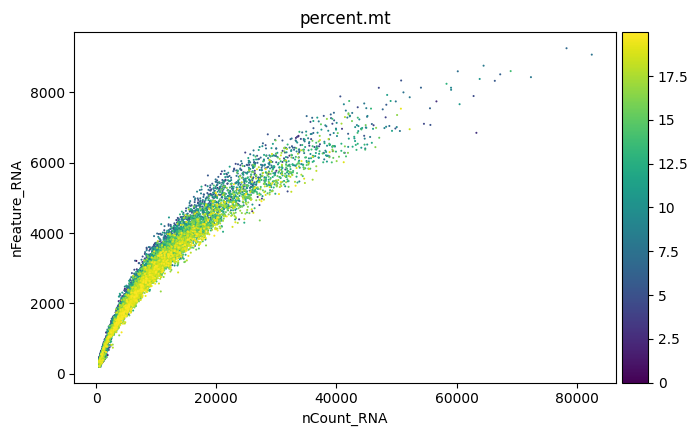
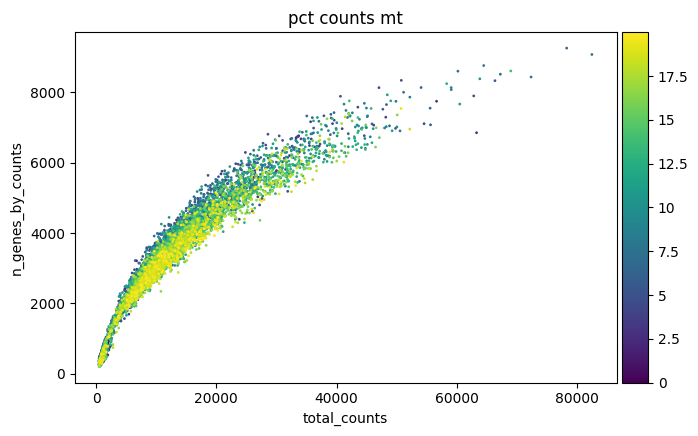
updates

diff --git a/PythonCode/GaldosProcess.py b/PythonCode/GaldosProcess.py
@@ -26,6 +26,7 @@ import lamindb as ln
 import numpy as np
 import scanpy as sc
 import seaborn as sns
+import pandas as pd
 from rpy2.robjects import numpy2ri
 from rpy2.robjects.conversion import localconverter
 from scipy.sparse import csc_matrix
@@ -157,12 +158,26 @@ def DoSoup(adata, rawFile):
     # Min 20 cells - filters out 0 count genes
     sc.pp.filter_genes(adata, min_cells=20)
     print(f"Number of genes after cell filter: {adata.n_vars}")
+    return adata
 
-def is_outlier(adata, metric: str, nmads: int):
+def is_outlier(adata, metric: str, nmads: int, upper_only: bool = False):
     M = adata.obs[metric]
-    outlier = (M < np.median(M) - nmads * median_abs_deviation(M)) | (
-        np.median(M) + nmads * median_abs_deviation(M) < M
-    )
+    outlier = pd.Series(False, index=adata.obs_names, dtype=bool)
+
+    for celltype in adata.obs["Classification"].unique():
+        isCelltype = adata.obs["Classification"] == celltype
+        M_group = M[isCelltype]
+
+        med = np.median(M_group)
+        mad = median_abs_deviation(M_group)
+
+        if upper_only:
+            group_outlier = M_group > med + nmads * mad
+        else:
+            group_outlier = (M_group < med - nmads * mad) | (M_group > med + nmads * mad)
+
+        outlier[isCelltype] = group_outlier
+
     return outlier
 
 
@@ -218,15 +233,14 @@ for i, filePath in enumerate(Galdos_Hipsc):
     | is_outlier(gex_adata, "log1p_n_genes_by_counts", 5)
     | is_outlier(gex_adata, "pct_counts_in_top_20_genes", 5)
     )
-    gex_adata.obs["mt_outlier"] = is_outlier(gex_adata, "pct_counts_mt", 3) | (
-    gex_adata.obs["pct_counts_mt"] > 60
-    )
+    gex_adata.obs["mt_outlier"] = is_outlier(gex_adata, "pct_counts_mt", 5, True) 
+    
     print(f"Total number of cells: {gex_adata.n_obs}")
     gex_adata = gex_adata[(~gex_adata.obs.outlier) & (~gex_adata.obs.mt_outlier)].copy()
 
     print(f"Number of cells after filtering of low quality cells: {gex_adata.n_obs}")
-
-    DoSoup(gex_adata, rawFiles[i])
+    gex_adata.raw = gex_adata
+    gex_adata = DoSoup(gex_adata, rawFiles[i])
 
     GaldosAdatas.append(gex_adata)
     del gex_adata, hto_adata
@@ -237,9 +251,9 @@ GaldosAdatas.var_names_make_unique()
 GaldosAdatas.obs_names_make_unique()
 sc.pp.highly_variable_genes(
     GaldosAdatas,
-    n_top_genes=1200,
+    n_top_genes=3000,
     subset=True,
-    layer="counts",
+    layer="soupX_counts",
     flavor="seurat_v3",
     batch_key="sample",
 )
@@ -256,7 +270,7 @@ scvi.model.SCVI.setup_anndata(
     layer="counts",
     batch_key = "sample",
     categorical_covariate_keys=["CellLine"],
-    #continuous_covariate_keys=["pct_counts_mt", "pct_counts_ribo", "pct_counts_hb"],
+    continuous_covariate_keys=["pct_counts_mt", "pct_counts_ribo", "pct_counts_hb"],
 )
 model = scvi.model.SCVI(GaldosAdatas)
 model.train()
@@ -272,5 +286,14 @@ sc.pl.umap(
     show=False,
     save="_umap_DayGaldos.png",
 )
-GaldosAdatas.write("ProcessedData/GaldosScanpy.h5ad")
+
+# 1. Convert .obs and .var row indices to strings
+GaldosAdatas.obs_names = GaldosAdatas.obs_names.astype(str)
+GaldosAdatas.var_names = GaldosAdatas.var_names.astype(str)
+
+# 2. Convert .obs and .var column headers to strings
+GaldosAdatas.obs.columns = GaldosAdatas.obs.columns.astype(str)
+GaldosAdatas.var.columns = GaldosAdatas.var.columns.astype(str)
+
+GaldosAdatas.write_zarr("ProcessedData/GaldosScanpy.zarr")
 

diff --git a/PythonCode/integration.py b/PythonCode/integration.py
@@ -1,0 +1,131 @@
+# Core scverse libraries
+from mlx.core.random import categorical
+from __future__ import annotations
+
+import matplotlib
+import matplotlib.pyplot as plt
+
+import anndata as ad
+
+# Data retrieval
+import scanpy as sc
+import scanpy.external as sce
+
+# Reproducibility
+import scvi
+import torch
+
+GaldosPath = "ProcessedData/GaldosScanpy.zarr"
+BioreactorPath = "ProcessedData/BioReactorScanpy.zarr"
+
+
+GaldosAdata = ad.read_zarr(GaldosPath)
+BioreactorAdata = ad.read_zarr(BioreactorPath)
+
+GaldosAdata.obs["source"] = "Galdos"
+BioreactorAdata.obs["source"] = "Bioreactor"
+
+BioreactorAdata.obs["Day"] = 15
+BioreactorAdata.obs["Day"] = BioreactorAdata.obs["Day"].astype(int).astype("category")
+BioreactorAdata.obs[['CellLine', 'substrate']] = BioreactorAdata.obs['orig.ident'].str.split('_', n=1, expand=True)
+
+GaldosAdata.obs["substrate"] = "2D"
+
+
+mergedAdata = ad.concat([GaldosAdata, BioreactorAdata], join = "inner")
+
+del(GaldosAdata)
+del(BioreactorAdata)
+
+sc.pp.highly_variable_genes(
+    mergedAdata,
+    n_top_genes=3000,
+    subset=True,
+    layer="counts",
+    flavor="seurat_v3",
+    batch_key="source",
+)
+torch.set_float32_matmul_precision('medium')
+scvi.model.SCVI.setup_anndata(
+    mergedAdata,
+    layer="counts",
+    batch_key = "source",
+    categorical_covariate_keys=["CellLine"],
+    continuous_covariate_keys=["pct_counts_mt", "pct_counts_ribo", "pct_counts_hb"],
+)
+model = scvi.model.SCVI(mergedAdata)
+model.train()
+mergedAdata.obsm["X_scVI"] = model.get_latent_representation()
+mergedAdata.obsm["X_normalized_scVI"] = model.get_normalized_expression()  
+
+sc.pp.neighbors(mergedAdata
+    , use_rep="X_scVI"
+    )
+sc.tl.umap(mergedAdata)
+sc.tl.leiden(mergedAdata)
+
+fig, axs = plt.subplots(1, 2, figsize=(10, 5))
+
+p1 = sc.pl.umap(
+    mergedAdata[(mergedAdata.obs["source"] == "Galdos").copy() & (mergedAdata.obs["Day"] == 15).copy()],
+    size=4,
+    ax=axs[0],
+    color = "Day"
+)
+p2 = sc.pl.umap(
+    mergedAdata[(mergedAdata.obs["source"] == "Bioreactor")],
+    size=4,
+    ax=axs[1],
+    color = "substrate",
+)
+
+
+plt.tight_layout()
+plt.show()
+plt.savefig("figures/BioreactorGaldosComparison.png")
+
+sc.pl.umap(
+    mergedAdata,
+    size = 4,
+    color = "Day"
+)
+
+mergedAdata.write_zarr("ProcessedData/GaldosBioReactor.zarr")
+mergedAdata = ad.read_zarr("ProcessedData/GaldosBioReactor.zarr")
+
+APTPath = "ProcessedData/APTCardioScanpy.zarr"
+
+ATPAdata = ad.read_zarr(APTPath)
+
+ATPAdata.obs["Day"] = 100
+ATPAdata.obs["Day"] = ATPAdata.obs["Day"].astype("category")
+ATPAdata.obs["source"] = "PrimaryAdult"
+ATPAdata.obs["CellType"] = ATPAdata.obs["scANVI_predictions"]
+
+
+mergedAdata = ad.concat([mergedAdata, ATPAdata], join = "outer")
+del ATPAdata
+
+scvi.model.SCVI.setup_anndata(
+    mergedAdata,
+    layer="counts",
+    batch_key = "source",
+    #categorical_covariate_keys=["CellLine"],
+    #continuous_covariate_keys=["pct_counts_mt", "pct_counts_ribo", "pct_counts_hb"],
+)
+model = scvi.model.SCVI(mergedAdata)
+model.train()
+mergedAdata.obsm["X_scVI"] = model.get_latent_representation()
+mergedAdata.obsm["X_normalized_scVI"] = model.get_normalized_expression()  
+
+sc.pp.neighbors(mergedAdata,
+    use_rep="X_scVI"
+    )
+sc.tl.umap(mergedAdata)
+sc.tl.leiden(mergedAdata)
+
+sc.pl.umap(
+    mergedAdata,
+    size = 4,
+    color = "Day"
+)

diff --git a/PythonCode/BioreactorProcess.py b/PythonCode/BioreactorProcess.py
@@ -15,13 +15,39 @@ import scvi
 
 filePath = "RawData/GSE263372_(BioReator)/converted_data.h5ad"
 adata = sc.read_h5ad(filePath)
-adata
+adata = adata[adata.obs["orig.ident"] != "AK2087_organoid", :].copy()
 
+adata.obs[["cell_line", "condition"]] = adata.obs["orig.ident"].str.split("_", expand=True)
+
+adata.layers["counts"] = adata.X.astype(int).copy()
+
+adata.var["mt"] = adata.var_names.str.startswith("MT-")
+# ribosomal genes
+adata.var["ribo"] = adata.var_names.str.startswith(("RPS", "RPL"))
+# hemoglobin genes.
+adata.var["hb"] = adata.var_names.str.contains(r"^HB[ABDEGMQZ]\d*(?!\w)")
+sc.pp.calculate_qc_metrics(
+    adata, qc_vars=["mt", "ribo", "hb"], inplace=True, percent_top=[20], log1p=True
+    )
+
+sc.pl.scatter(adata, "total_counts", "n_genes_by_counts", color="pct_counts_mt", show=False, save="_qc_scatter.png")
+
+# 1. Save raw counts before any normalization
 adata.layers["counts"] = adata.X.copy()
 
-# Standard Scanpy preprocessing
-sc.pp.normalize_total(adata)
+# 3. Normalize
+sc.pp.normalize_total(adata, target_sum=1e4)
 sc.pp.log1p(adata)
-
 adata.raw = adata
 
+# 4. HVGs → scale → PCA → neighbors → UMAP
+sc.pp.highly_variable_genes(adata, n_top_genes=2000, flavor="seurat_v3", layer="counts")
+adataHVG = adata[:, adata.var["highly_variable"]].copy()
+sc.pp.scale(adataHVG, max_value=10)
+sc.pp.pca(adataHVG, n_comps=30)
+sc.pp.neighbors(adataHVG, n_pcs=20)
+sc.tl.umap(adataHVG, n_components=20)
+
+sc.pl.umap(adataHVG, color="orig.ident", size=4, show=False, save="_umapBioReactor.png")
+
+adata.write_zarr("ProcessedData/BioReactorScanpy.zarr")

diff --git a/PythonCode/AdultPrimaryProcess.py b/PythonCode/AdultPrimaryProcess.py
@@ -1,0 +1,35 @@
+# Core scverse libraries
+from __future__ import annotations
+
+import matplotlib
+matplotlib.use("Agg")  # non-interactive backend — renders to file only
+
+import anndata as ad
+
+# Data retrieval
+import scanpy as sc
+import scanpy.external as sce
+
+# Reproducibility
+import scvi
+
+filePath = "RawData/HCA_Adult_Primary_Tissue/Global_raw.h5ad"
+adata = sc.read_h5ad(filePath)
+
+# paper using this data only used these donors, idk if their reasoning translates to my 
+# usage, but it shrinks the size so...
+
+
+# 3. Normalize
+sc.pp.normalize_total(adata, target_sum=1e4)
+sc.pp.log1p(adata)
+adata.raw = adata
+
+#sc.pp.highly_variable_genes(adata, n_top_genes=2000, flavor="seurat_v3")
+sc.tl.leiden(adata, resolution = 0.1, flavor="igraph", n_iterations=2, random_state=42)
+
+sc.pl.umap(adata, size=4, show=False, save="_umapAPT.png")
+
+adata = adata[adata.obs["leiden"].isin(["5", "6", "2"])].copy()
+adata = adata[adata.obs["donor"].isin(["D2", "D3", "D4"])]
+adata.write_zarr("ProcessedData/APTCardioScanpy.zarr")
